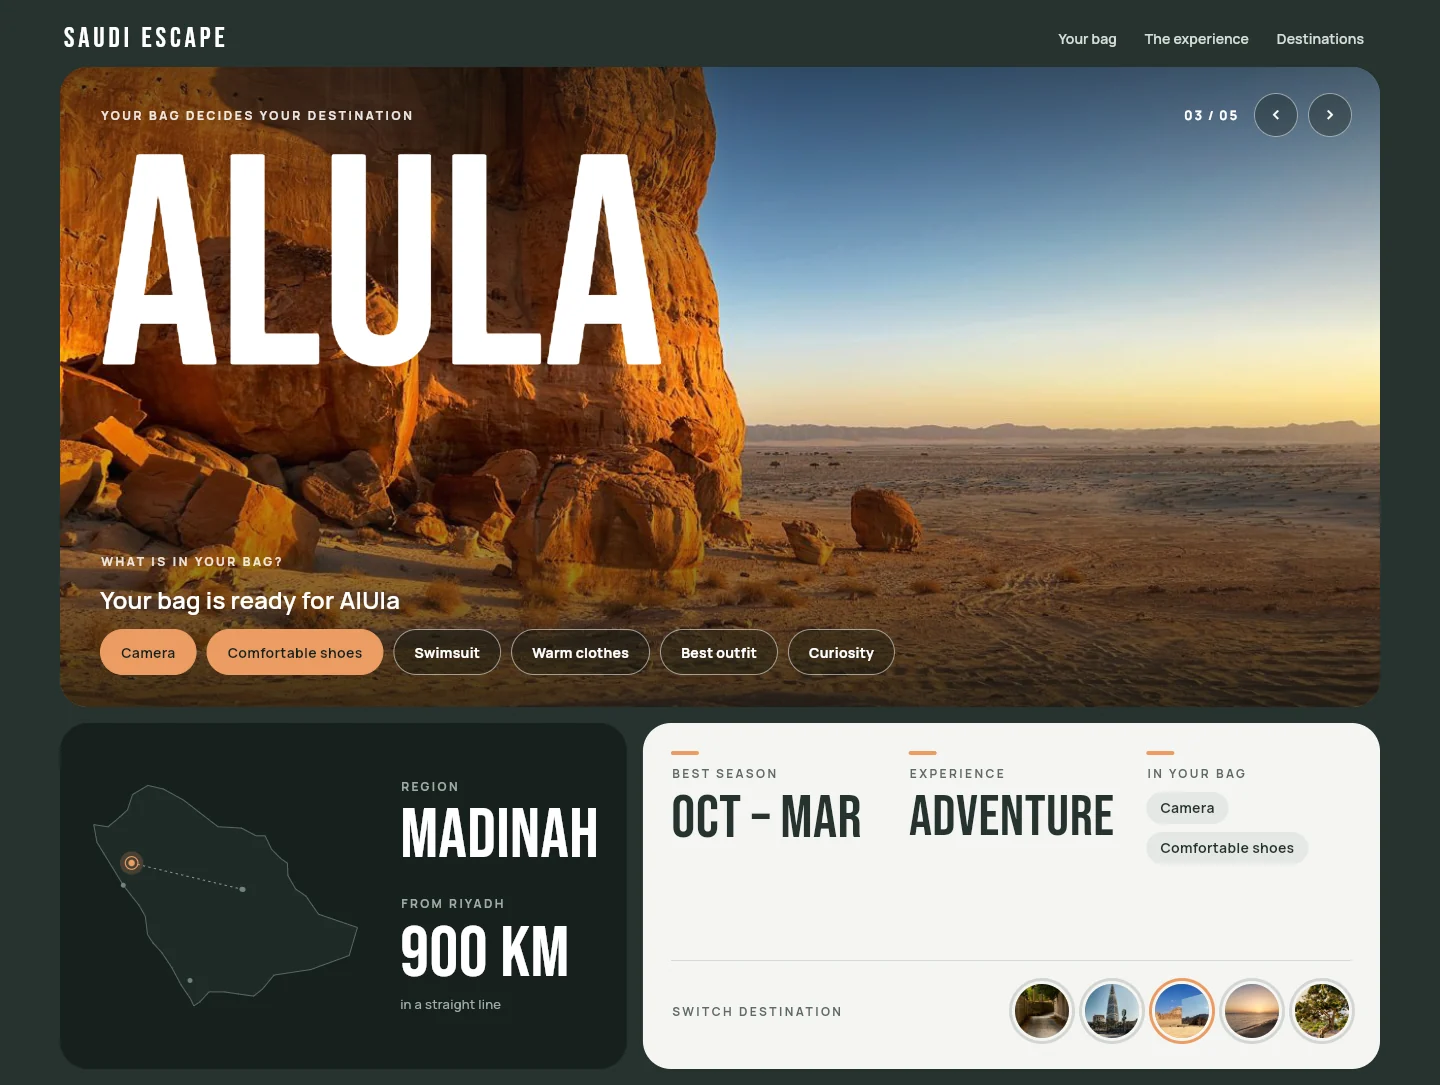
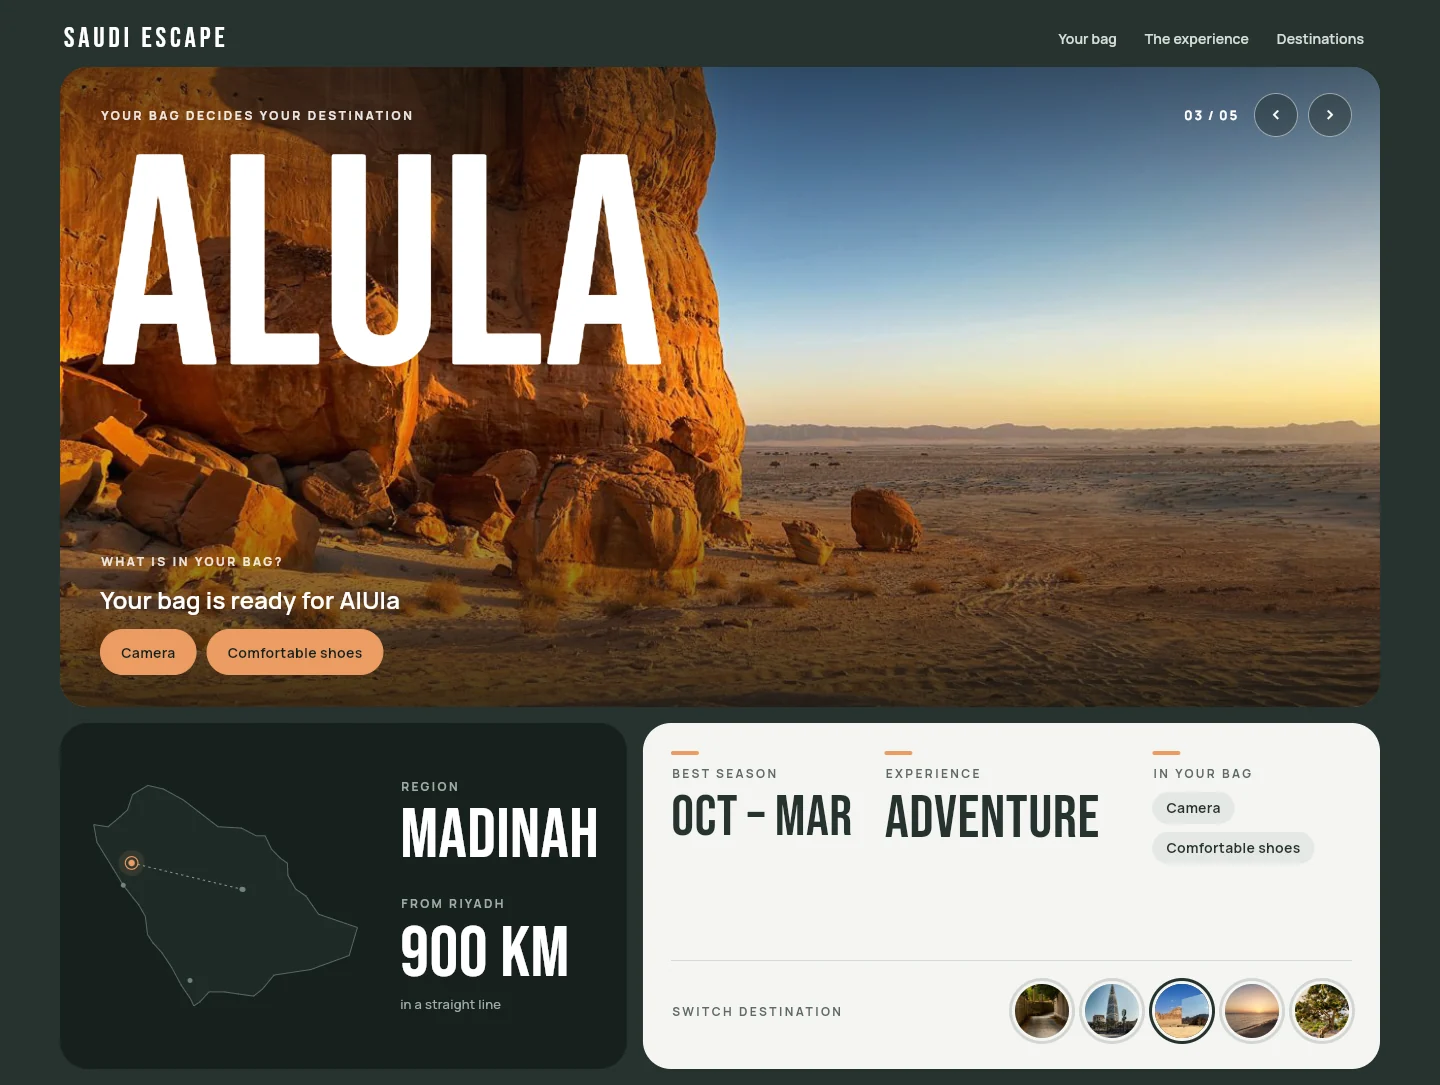
Show each destination's own bag items, not all of them
The stage listed every item for every destination, so "Swimsuit" showed
under AlUla. It now shows only the items that belong to the destination
on stage (AlUla: Camera, Comfortable shoes), and ticking one just ticks
it instead of switching to another destination. A destination added from
the app has no items, so its stage shows no bag. Card badges read
"2 of 2 packed".

Updates the README text and screenshots to match.

Claude-Session: https://claude.ai/code/session_01GDWLt9qKuDnPWptfngRSqJ

diff --git a/test/home_page_test.dart b/test/home_page_test.dart
@@ -43,23 +43,36 @@ void main() {
     addTearDown(tester.view.reset);
   }
 
-  testWidgets('ticking bag items switches the destination (wide)', (tester) async {
+  testWidgets('each destination shows only its own bag items (wide)', (tester) async {
     useSize(tester, const Size(1440, 2600));
     await tester.pumpWidget(_app(() async => demoDestinations));
     await tester.pumpAndSettle();
 
+    // Diriyah: just Curiosity. No other destination's items on show.
     expect(find.text('Pack curiosity for Diriyah'), findsOneWidget);
+    expect(find.text('Curiosity'), findsWidgets);
+    expect(find.text('Swimsuit'), findsNothing);
+    expect(find.text('Camera'), findsNothing);
 
-    await tester.tap(find.text('Swimsuit'));
+    await tester.tap(find.text('Curiosity').first);
     await tester.pumpAndSettle();
-    expect(find.text('Your bag is ready for Umluj'), findsOneWidget);
+    expect(find.text('Your bag is ready for Diriyah'), findsOneWidget);
+    expect(find.text('1 of 1 packed'), findsOneWidget);
 
-    await tester.tap(find.text('Camera'));
-    await tester.tap(find.text('Comfortable shoes'));
+    // Next two destinations: Riyadh, then AlUla.
+    await tester.tap(find.bySemanticsLabel('Next destination'));
     await tester.pumpAndSettle();
-    // AlUla now has 2 ticked items, Umluj 1.
-    expect(find.text('Your bag is ready for AlUla'), findsOneWidget);
-    expect(find.text('2 of 2 in your bag'), findsOneWidget);
+    await tester.tap(find.bySemanticsLabel('Next destination'));
+    await tester.pumpAndSettle();
+    expect(find.text('Pack camera + comfortable shoes for AlUla'), findsOneWidget);
+    expect(find.text('Swimsuit'), findsNothing);
+
+    await tester.tap(find.text('Camera').first);
+    await tester.pumpAndSettle();
+    expect(find.text('Pack comfortable shoes for AlUla'), findsOneWidget);
+    expect(find.text('1 of 2 packed'), findsOneWidget);
+    // Ticking never moves you to another destination.
+    expect(find.text('03 / 05'), findsOneWidget);
   });
 
   testWidgets('search filters the destination cards', (tester) async {

diff --git a/test/bag_test.dart b/test/bag_test.dart
@@ -2,32 +2,21 @@ import 'package:flutter_test/flutter_test.dart';
 import 'package:travel_project5/data/bag.dart';
 
 void main() {
-  const destinations = ['Diriyah', 'Riyadh', 'AlUla', 'Umluj', 'Abha'];
-
-  group('bestBagMatch', () {
-    test('returns -1 when nothing is ticked', () {
-      expect(bestBagMatch(destinations, {}, 0), -1);
+  group('bagItemsFor', () {
+    test('every item is listed only under its own destination', () {
+      expect([for (final b in bagItemsFor('AlUla')) b.label],
+          ['Camera', 'Comfortable shoes']);
+      expect([for (final b in bagItemsFor('Umluj')) b.label], ['Swimsuit']);
+      expect(bagItemsFor('Khobar'), isEmpty);
     });
 
-    test('picks the destination with the most ticked items', () {
-      expect(bestBagMatch(destinations, {'camera', 'shoes'}, 0), 2);
-      expect(bestBagMatch(destinations, {'swim'}, 0), 3);
-    });
-
-    test('keeps the current destination when it ties for best', () {
-      // One item for AlUla and one for Umluj: both score 1.
-      expect(bestBagMatch(destinations, {'camera', 'swim'}, 3), 3);
-      expect(bestBagMatch(destinations, {'camera', 'swim'}, 2), 2);
-    });
-
-    test('moves to the first best match when current is not among them', () {
-      expect(bestBagMatch(destinations, {'camera', 'swim'}, 0), 2);
-    });
-
-    test('handles an empty destination list', () {
-      expect(bestBagMatch(const [], {'camera'}, 0), -1);
+    test('ticking another destination\'s item does not count', () {
+      expect(bagScore('AlUla', {'swim'}), 0);
+      expect(bagScore('AlUla', {'camera', 'swim'}), 1);
+      expect(bagScore('Umluj', {'camera', 'swim'}), 1);
     });
   });
+
 
   group('packLine', () {
     test('lists what is still missing', () {

diff --git a/lib/widgets/hero_stage.dart b/lib/widgets/hero_stage.dart
@@ -35,6 +35,9 @@ class HeroStage extends StatelessWidget {
   Widget build(BuildContext context) {
     final accent = destinations[active].color;
     final pad = wide ? 40.0 : 20.0;
+    // Only what belongs in the bag for this destination; none for destinations
+    // added from the app, which then show no bag.
+    final items = bagItemsFor(destinations[active].name);
 
     return ClipRRect(
       borderRadius: BorderRadius.circular(wide ? 28 : 24),
@@ -190,8 +193,9 @@ class HeroStage extends StatelessWidget {
                     ),
                   ),
                 ),
-                // Bottom: the bag.
-                Positioned(
+                // Bottom: the bag for this destination.
+                if (items.isNotEmpty)
+                  Positioned(
                   left: pad,
                   right: pad,
                   bottom: wide ? 32 : 22,
@@ -222,7 +226,7 @@ class HeroStage extends StatelessWidget {
                         spacing: wide ? 10 : 8,
                         runSpacing: wide ? 10 : 8,
                         children: [
-                          for (final item in bagItems)
+                          for (final item in items)
                             BagChip(
                               label: item.label,
                               selected: picked.contains(item.id),

diff --git a/lib/data/bag.dart b/lib/data/bag.dart
@@ -1,5 +1,5 @@
-/// Something a traveller can tick as "in my bag". Each item points to the
-/// destination it is packed for.
+/// Something to pack. Each item belongs to one destination and is shown only
+/// with it.
 class BagItem {
   const BagItem(this.id, this.label, this.destination);
 
@@ -22,21 +22,6 @@ List<BagItem> bagItemsFor(String destination) =>
 
 int bagScore(String destination, Set<String> picked) =>
     bagItemsFor(destination).where((b) => picked.contains(b.id)).length;
-
-/// Index (into [destinations]) of the destination the bag points to, or -1
-/// when nothing relevant is ticked. A tie keeps [current] if it is among the
-/// best, so ticking more items never jumps away from a destination that
-/// already fits.
-int bestBagMatch(List<String> destinations, Set<String> picked, int current) {
-  if (destinations.isEmpty) return -1;
-  final scores = destinations.map((d) => bagScore(d, picked)).toList();
-  final top = scores.reduce((a, b) => a > b ? a : b);
-  if (top == 0) return -1;
-  if (current >= 0 && current < scores.length && scores[current] == top) {
-    return current;
-  }
-  return scores.indexOf(top);
-}
 
 /// The sentence on the stage: what is still missing for [destination].
 String packLine(String destination, Set<String> picked) {

diff --git a/test/add_destination_test.dart b/test/add_destination_test.dart
@@ -72,7 +72,8 @@ void main() {
     expect(find.text('ADD A DESTINATION'), findsNothing);
     // The new destination has a card and is the one on the stage.
     expect(find.text('Khobar'), findsOneWidget);
-    expect(find.text('Your bag is ready for Khobar'), findsOneWidget);
+    expect(find.text('KHOBAR'), findsOneWidget);
+    expect(find.text('06 / 06'), findsOneWidget);
     expect(find.text('Khobar was added'), findsOneWidget);
   });
 

diff --git a/lib/pages/home_page.dart b/lib/pages/home_page.dart
@@ -109,11 +109,7 @@ class _HomePageState extends State<HomePage> {
   void _toggle(String id) {
     final next = {...picked};
     if (!next.remove(id)) next.add(id);
-    final best = bestBagMatch([for (final d in destinations) d.name], next, active);
-    setState(() {
-      picked = next;
-      if (best >= 0) active = best;
-    });
+    setState(() => picked = next);
   }
 
   void _openDetail(int index) {

diff --git a/lib/widgets/destination_cards.dart b/lib/widgets/destination_cards.dart
@@ -147,7 +147,7 @@ class DestinationCards extends StatelessWidget {
   String? _matchText(String name) {
     final score = bagScore(name, picked);
     if (score == 0) return null;
-    return '$score of ${bagItemsFor(name).length} in your bag';
+    return '$score of ${bagItemsFor(name).length} packed';
   }
 }
 

diff --git a/README.md b/README.md
@@ -1,6 +1,6 @@
 # Saudi Escape: Your Bag, Your Destination
 
-A Flutter app that lets your bag decide where in Saudi Arabia you travel. Tick what you packed, and the app points you to the destination that fits: AlUla for a camera and comfortable shoes, Umluj for a swimsuit, Abha for warm clothes.
+A Flutter app for choosing where to go in Saudi Arabia and what to pack for it. Every destination comes with its own bag: AlUla asks for a camera and comfortable shoes, Umluj for a swimsuit, Abha for warm clothes.
 
 A Flutter project with web, Android and Windows targets. Destinations are loaded from Supabase.
 
@@ -20,24 +20,26 @@ A Flutter project with web, Android and Windows targets. Destinations are loaded
 
 ## How it works
 
-Under the photo, **What is in your bag?** lists six things you can tick. Each one belongs to a destination, and the stage switches to the destination with the most ticked items.
+Every destination has its own things to pack. The stage shows only the ones for the destination you are on, and you tick them off as you pack.
 
-| In your bag | Destination |
+| Destination | In your bag |
 | --- | --- |
-| Camera, Comfortable shoes | AlUla |
-| Swimsuit | Umluj |
-| Warm clothes | Abha |
-| Best outfit | Riyadh |
-| Curiosity | Diriyah |
+| AlUla | Camera, Comfortable shoes |
+| Umluj | Swimsuit |
+| Abha | Warm clothes |
+| Riyadh | Best outfit |
+| Diriyah | Curiosity |
 
-The line above the chips says what is still missing, for example *Pack camera + comfortable shoes for AlUla*, or *Your bag is ready for AlUla* once everything is packed.
+The line above the chips says what is still missing, for example *Pack camera + comfortable shoes for AlUla*, or *Your bag is ready for AlUla* once everything is ticked. Each destination card shows how many of its items you have packed.
+
+The items live in `lib/data/bag.dart`. A destination added from the app has no items yet, so its stage shows no bag.
 
 ## Features
 
-- **Stage:** a large photo with the destination's name, a counter and previous / next buttons. Photos cross-fade when you switch.
+- **Stage:** a large photo with the destination's name, its bag to tick off, a counter and previous / next buttons. Photos cross-fade when you switch.
 - **Facts:** a line map of Saudi Arabia that marks the destination and its route from Riyadh, plus region, distance, best season and type of experience.
 - **Story:** *About the experience* and *Don't miss* for each destination.
-- **Destinations:** search, and a card for each destination that shows how many of its items are in your bag.
+- **Destinations:** search, and a card for each destination that shows how many of its items you have packed.
 - **Add a destination:** the **+** button opens a form (name, type, one of the bundled photos, accent colour) and saves a new row to `destinationData`. A destination with a new name shows the photo you picked on the stage, with general texts.
 - **Responsive:** a wide layout on desktop and tablet; on phones the card opens a detail screen.
 - **Reliable loading:** the destinations load once; if the request fails there is a message and a *Try again* button.
@@ -83,7 +85,7 @@ Saving from the app needs permission to insert into this table. If you use Row L
 flutter test
 ```
 
-They cover the bag matching, ticking chips on the home page, search, the retry button, and that the phone layout builds without overflow.
+They cover the bag items, ticking them on the home page, search, the retry button, adding a destination, and that the phone layout builds without overflow.
 
 ## Project structure
 
